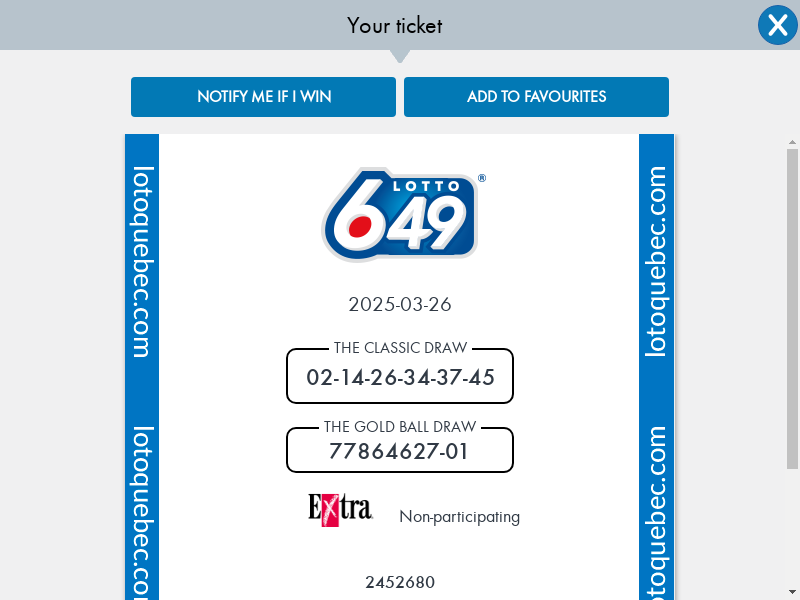
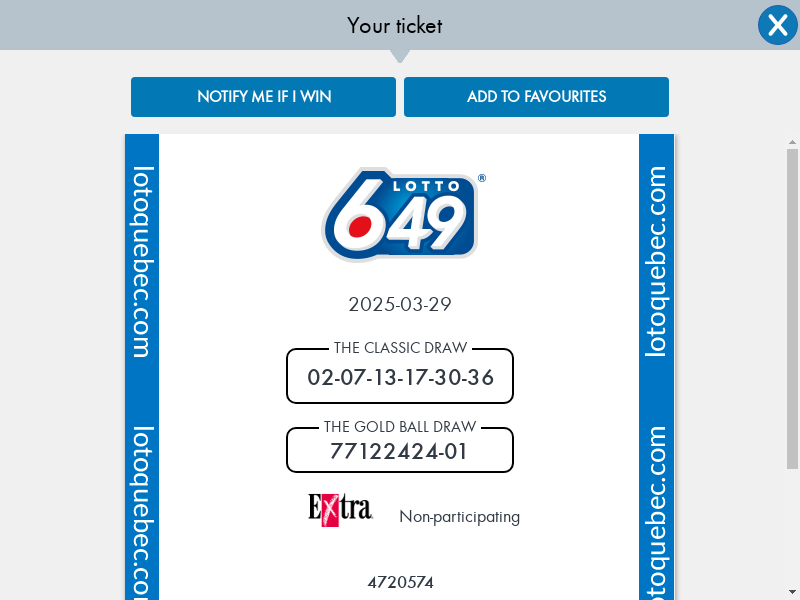
auto commit

diff --git a/docs/index.html b/docs/index.html
@@ -76,7 +76,14 @@
             </tr>
             </thead>
             <tbody>
-            <tr><td>2025-03-22</td><td>02-14-26-34-37-45</td><td>empty</td><td>{
+            <tr><td>2025-03-26</td><td>02-07-13-17-30-36</td><td>empty</td><td>{
+  "generate_nums": ["02", "07", "13", "17", "30", "36"]
+}</td></tr>
+<tr><td>2025-03-22</td><td>02-14-26-34-37-45</td><td>match 1 number, win number: The Classic Draw
+
+
+09-13-25-30-45-49 Bonus (B):
+(08)</td><td>{
   "generate_nums": ["02", "14", "26", "34", "37", "45"]
 }</td></tr>
 <tr><td>2025-03-19</td><td>02-12-21-30-38-44</td><td>match 1 number, win number: The Classic Draw
